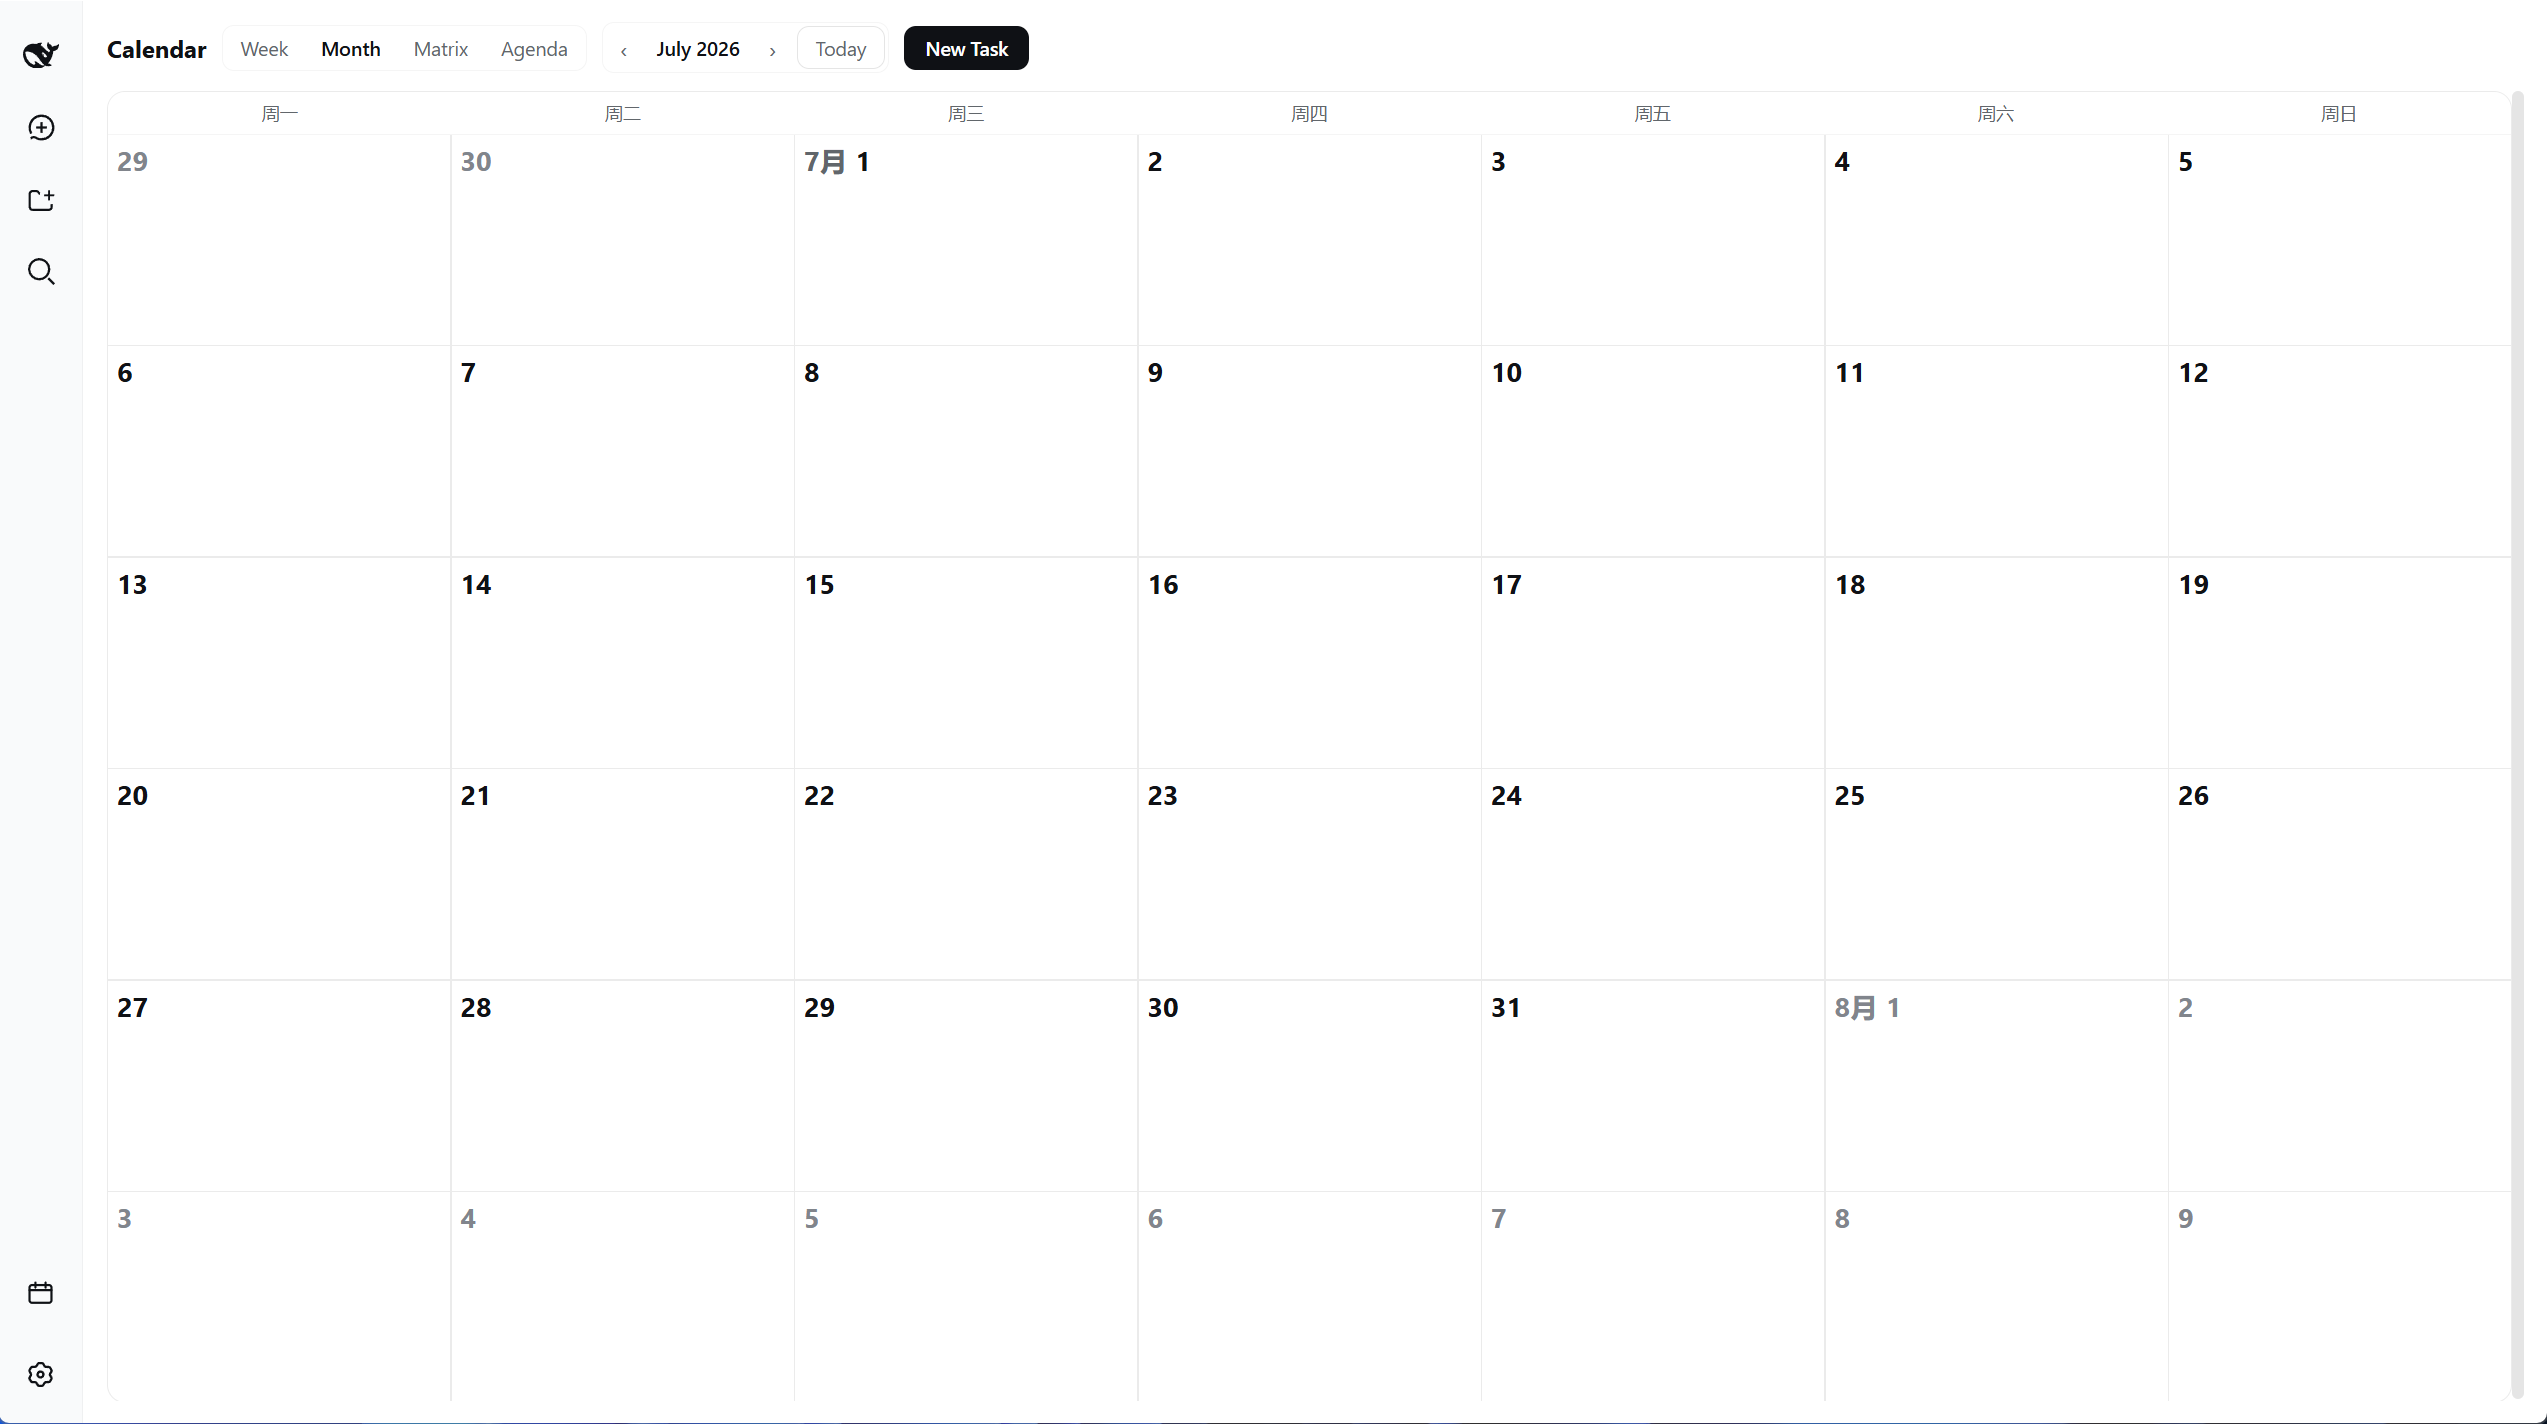
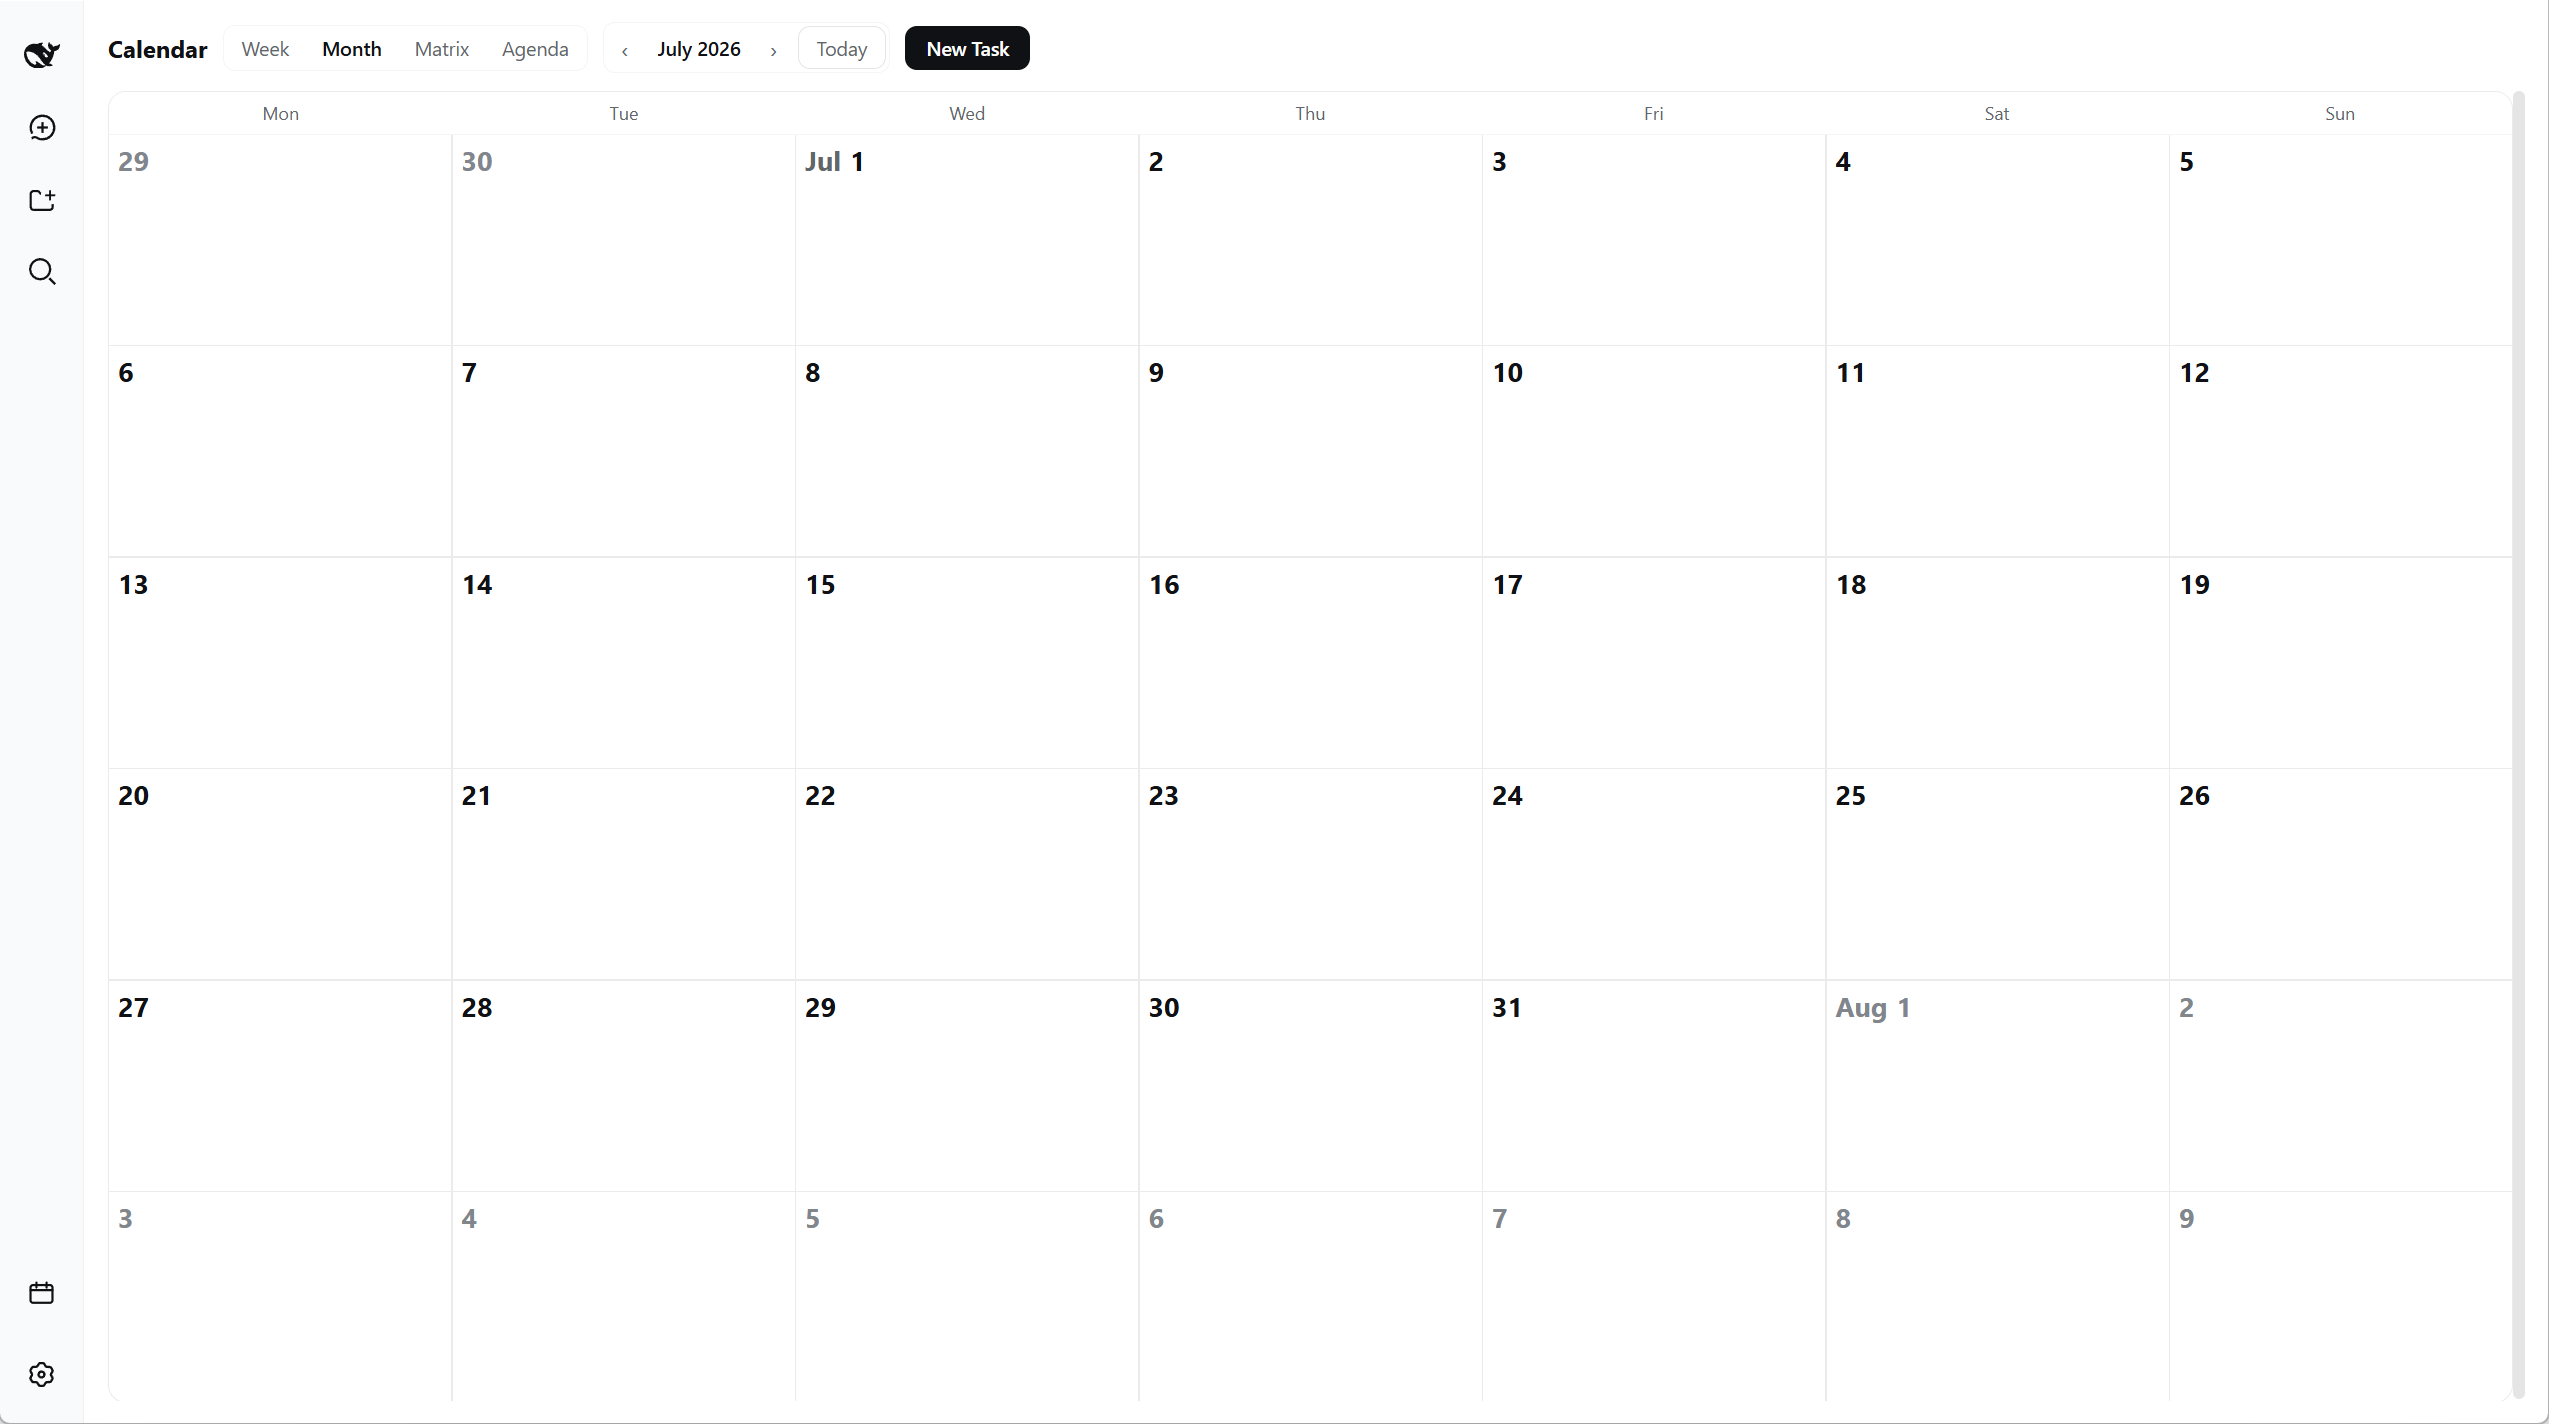
fix: monthly panel language

diff --git a/src/client/components/MonthGrid.tsx b/src/client/components/MonthGrid.tsx
@@ -6,7 +6,7 @@
 import type { calendarClientController } from '../controller.ts'
 import { blockOnDay, monthDays, sameMonth } from '../../core/calendar.ts'
 import { isTaskOccurrenceVisible, quadrantOf } from '../../core/tasks.ts'
-import { t } from '../locales.ts'
+import { locale, t } from '../locales.ts'
 import css from '../calendar.module.css'
 
 const ACCENT: Record<string, string> = {
@@ -21,8 +21,8 @@ interface MonthGridProps {
 }
 
 /** The 7 weekday headers, Monday-first or Sunday-first per weekStart. */
-function weekdayLabels(weekStart: 0 | 1): string[] {
-  const fmt = new Intl.DateTimeFormat(undefined, { weekday: 'short' })
+function weekdayLabels(weekStart: 0 | 1, localeName: string): string[] {
+  const fmt = new Intl.DateTimeFormat(localeName, { weekday: 'short' })
   const d = new Date(2026, 0, 4 + (weekStart === 0 ? 1 : 0))
   const labels: string[] = []
   for (let i = 0; i < 7; i++) {
@@ -32,15 +32,16 @@ function weekdayLabels(weekStart: 0 | 1): string[] {
 }
 
 /** Short month name (e.g. "9月" / "Sep") for the 1st-of-month cells. */
-function monthShortLabel(dateMs: number): string {
-  return new Intl.DateTimeFormat(undefined, { month: 'short' }).format(new Date(dateMs))
+function monthShortLabel(dateMs: number, localeName: string): string {
+  return new Intl.DateTimeFormat(localeName, { month: 'short' }).format(new Date(dateMs))
 }
 
 export function MonthGrid({ controller }: MonthGridProps) {
   const snap = controller.getSnapshot()
   const days = monthDays(snap.cursor, snap.weekStart)
   const todayKey = new Date().toDateString()
-  const weekdays = weekdayLabels(snap.weekStart)
+  const localeName = locale()
+  const weekdays = weekdayLabels(snap.weekStart, localeName)
   return (
     <div className={css.monthWrap} data-dsh-calendar-month="">
       <div className={css.monthWeekHeader} aria-hidden="true">
@@ -63,7 +64,7 @@ export function MonthGrid({ controller }: MonthGridProps) {
               onClick={() => { controller.setCursor(day.dateMs); controller.setView('week') }}
             >
               <span className={css.monthCellDateRow}>
-                {isFirstOfMonth && <span className={css.monthCellMonthLabel}>{monthShortLabel(day.dateMs)}</span>}
+                {isFirstOfMonth && <span className={css.monthCellMonthLabel}>{monthShortLabel(day.dateMs, localeName)}</span>}
                 <span className={css.monthCellDay}>{new Date(day.dateMs).getDate()}</span>
               </span>
               <span className={css.monthChips}>

diff --git a/tests/calendar-view.spec.tsx b/tests/calendar-view.spec.tsx
@@ -1,10 +1,11 @@
 // @vitest-environment jsdom
-import { describe, expect, it } from 'vitest'
+import { describe, expect, it, vi } from 'vitest'
 import { createRoot } from 'react-dom/client'
 import { act } from 'react-dom/test-utils'
 import { calendarClientController, initialState } from '../src/client/controller.ts'
 import { MemorycalendarHostTransport } from '../src/client/host-api.ts'
 import { CalendarView } from '../src/client/components/CalendarView.tsx'
+import { MonthGrid } from '../src/client/components/MonthGrid.tsx'
 import type { calendarAction, calendarSnapshot } from '../src/protocol.ts'
 
 function makeTransport() {
@@ -32,5 +33,31 @@ describe('CalendarView render', () => {
     expect(host.querySelector('[data-dsh-calendar-week]')).not.toBeNull()
 
     await act(async () => { root.unmount(); host.remove() })
+  })
+
+  it('formats month weekdays and month chips with the document language', () => {
+    const previousLang = document.documentElement.lang
+    document.documentElement.lang = 'en-US'
+    const OriginalDateTimeFormat = Intl.DateTimeFormat
+    const requestedLocales: Array<Intl.LocalesArgument | undefined> = []
+    const formatSpy = vi.spyOn(Intl, 'DateTimeFormat').mockImplementation((locales, options) => {
+      requestedLocales.push(locales)
+      return new OriginalDateTimeFormat(locales, options)
+    })
+    const controller = new calendarClientController(makeTransport(), initialState(0, 0))
+    const host = document.createElement('div')
+    document.body.appendChild(host)
+    const root = createRoot(host)
+
+    try {
+      act(() => { root.render(<MonthGrid controller={controller} />) })
+      expect(requestedLocales.length).toBeGreaterThan(0)
+      expect(requestedLocales.every(value => value === 'en-US')).toBe(true)
+    } finally {
+      formatSpy.mockRestore()
+      document.documentElement.lang = previousLang
+      act(() => { root.unmount() })
+      host.remove()
+    }
   })
 })

diff --git a/src/client/components/CalendarView.tsx b/src/client/components/CalendarView.tsx
@@ -14,7 +14,7 @@ import { TaskDetailPanel } from './TaskDetailPanel.tsx'
 import { RepeatTimeConfirm } from './RepeatTimeConfirm.tsx'
 import { ScheduleClearConfirm } from './ScheduleClearConfirm.tsx'
 import { RepeatDeleteConfirm } from './RepeatDeleteConfirm.tsx'
-import { t, type calendarKey } from '../locales.ts'
+import { locale, t, type calendarKey } from '../locales.ts'
 import css from '../calendar.module.css'
 
 const VIEWS: Array<{ view: calendarView; key: calendarKey }> = [
@@ -26,13 +26,6 @@ const VIEWS: Array<{ view: calendarView; key: calendarKey }> = [
 
 /** Whole-hour minutes-of-day options for the visible-day-window pickers. */
 const HOUR_OPTIONS = Array.from({ length: 25 }, (_, h) => h * 60)
-
-/** The document language (drives date labels); falls back to zh. */
-function locale(): string {
-  return typeof document !== 'undefined' && document.documentElement.lang
-    ? document.documentElement.lang
-    : 'zh'
-}
 
 interface CalendarViewProps {
   controller: calendarClientController

diff --git a/src/client/locales.ts b/src/client/locales.ts
@@ -311,9 +311,15 @@ export const en: Record<keyof typeof zh, string> = {
 /** The dictionary key union. */
 export type calendarKey = keyof typeof zh
 
+/** The document language used by both translations and date formatting. */
+export function locale(): string {
+  const lang = typeof document !== 'undefined' ? document.documentElement.lang : ''
+  return lang === '' ? 'zh' : lang
+}
+
 /** Active dictionary, picked by the document language at call time. */
 export function dictionary(): Record<calendarKey, string> {
-  const lang = typeof document !== 'undefined' ? document.documentElement.lang : 'zh'
+  const lang = locale()
   return lang.toLowerCase().startsWith('en') ? en : zh
 }
 

diff --git a/tsdown.config.ts b/tsdown.config.ts
@@ -10,7 +10,7 @@
  */
 import { clientBundle } from './build/tsdown.client.ts'
 
-export default clientBundle('dsh-calendar', ['src/index.ts', 'src/invariant.ts'], {
+export default clientBundle('@magma27/dsh-calendar', ['src/index.ts', 'src/invariant.ts'], {
   libExternal: [
     // Host-half services resolve at runtime from the dsh profile tree (never
     // from this repo's install), so they must stay external like @deepseek-ai/cordis.
